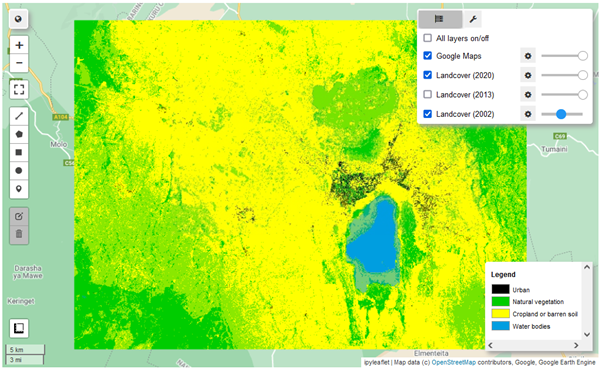
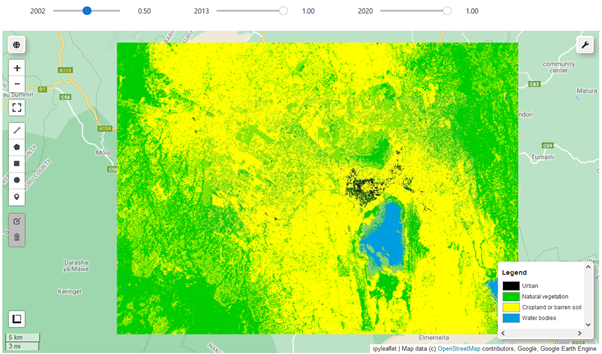
Add link to Nakuru pt2 live heroku app

diff --git a/_posts/2021-10-05-nakuru-pt2.md b/_posts/2021-10-05-nakuru-pt2.md
@@ -25,6 +25,8 @@ If this is your first time working with *geemap*, or virtual *conda* environment
 
 You can download the accompanying Jupyter Notebook <a href="/assets/img/uploads/2021-10-07-nakuru-pt2/Nakuru_RS_pt2.ipynb">here</a> which will allow you to avail of the interactive features.
 
+Or directly jump to the **live app** [here](https://nakuru-pt2.herokuapp.com/), built using [heroku](https://heroku.com).
+
 - [Getting started](#getting-started)
 - [Adding a reference layer and generating sample points](#adding-a-reference-layer-and-generating-sample-points)
 - [Training the classifier](#training-the-classifier)
@@ -33,7 +35,6 @@ You can download the accompanying Jupyter Notebook <a href="/assets/img/uploads/
 - [Classifying a Landsat 8 scene from 2013](#classifying-a-landsat-8-scene-from-2013)
 - [Classifying a Landsat 7 scene from 2002](#classifying-a-landsat-7-scene-from-2002)
 - [Final output](#final-output)
-- [Saving to HTML](#saving-to-html)
 - [Annex - Manual sample collection](#annex---manual-sample-collection)
 
 ## Getting started
@@ -44,6 +45,7 @@ We first import `geemap` and the GEE Python API. We then define the region of in
 ```python
 import geemap
 import ee
+import ipywidgets as widgets
 ee.Initialize()
 
 roi = ee.Geometry.Polygon(
@@ -385,36 +387,31 @@ new = urban_new + natveg_new + nonurb_new + water_new
 final_2002 = result_2002.remap(orig, new).clip(roi)
 
 Map.addLayer(final_2002, {'palette': class_palette}, 'Landcover (2002)')
+
+# finally, we can add some sliders to more directly control the opacity
+
+lc_2002 = Map.layers[-1]
+lc_2013 = Map.layers[-2]
+lc_2020 = Map.layers[-3]
+
+opacity_2002 = widgets.FloatSlider(min=0, max=1, step=0.1, value=1, description="2002")
+opacity_2013 = widgets.FloatSlider(min=0, max=1, step=0.1, value=1, description="2013")
+opacity_2020 = widgets.FloatSlider(min=0, max=1, step=0.1, value=1, description="2020")
+
+lc_2002.interact(opacity=opacity_2002)
+lc_2013.interact(opacity=opacity_2013)
+lc_2020.interact(opacity=opacity_2020)
+
+hbox = widgets.HBox([opacity_2002, opacity_2013, opacity_2020])
+hbox
 ```
 ## Final output
 
-And this is the final result. You can tick and untick the three layers and adjust the layer opacity via the slider widgets in the layer control. The bottom-most ticked layer in the layer manager is always the 'top' layer visible. Due to the two satellites and training datasets involved, the results are not 100% comparable, but close enough. You will also see significant differences in classification between the results here and those in Part 1. There are plenty of moving parts and, if your are so inclined, you are free to experiment both with other training datasets and classifiers at your disposal, each with their own set of parameters. In any case, the main purpose here was to introduce the significant capabilities of both _geemap_, Google Earth Engine and the Python environment for scalable remote sensing applications.
+And [this](https://nakuru-pt2.herokuapp.com/) is the final result. You can tick and untick the three layers and adjust the layer opacity via the slider widgets at above the map or in the layer control in the top right. Due to the two satellites and training datasets involved, the results are not 100% comparable, but close enough. You will also see significant differences in classification between the results here and those in Part 1. There are plenty of moving parts and, if your are so inclined, you are free to experiment both with other training datasets and classifiers at your disposal, each with their own set of parameters. In any case, the main purpose here was to introduce the significant capabilities of both _geemap_, Google Earth Engine and the Python environment for scalable remote sensing applications.
 
 As always, critique and comments are more than welcome.
 
 ![map insert](/assets/img/uploads/2021-10-07-nakuru-pt2/map4.png)
-
-
-## Saving to HTML
-
-At the time of writing I had to also install the _leafmap_ package for the exported HTML to properly open in the browser, possibly due to some recent _ipyleaflet_ updates. If this is the case for you too, simply run
-
-`conda install -c conda-forge leafmap`
-
-before proceeding. Occasionally, `leafmap.update_package()`, followed by a kernel restart may also be necessary.
-
-
-```python
-# Save the map to your Downloads folder
-import os
-
-download_dir = os.path.join(os.path.expanduser('~'), 'Downloads')
-if not os.path.exists(download_dir):
-    os.makedirs(download_dir)
-html_file = os.path.join(download_dir, 'Nakuru_pt2.html')
-
-Map.to_html(outfile=html_file, title='Remote sensing urban growth in Nakuru, Kenya - Part 2', width='100%', height='880px')
-```
 
 ## Annex - Manual sample collection
 
